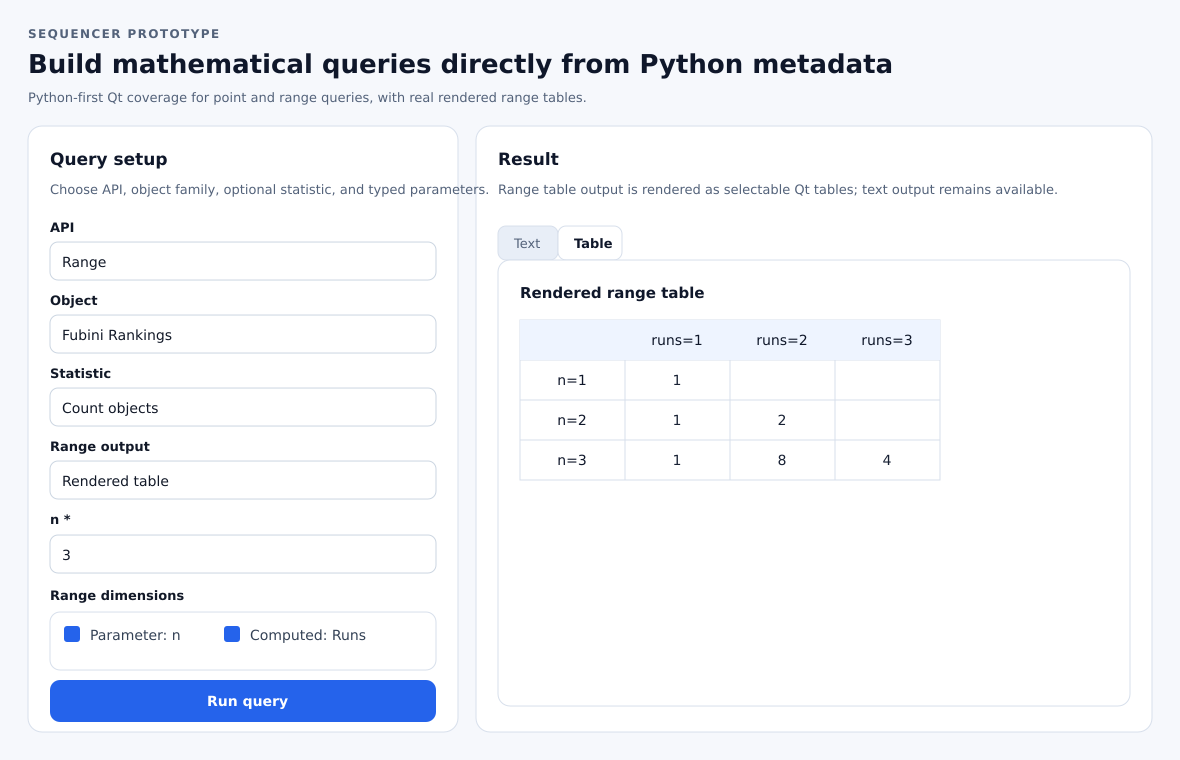
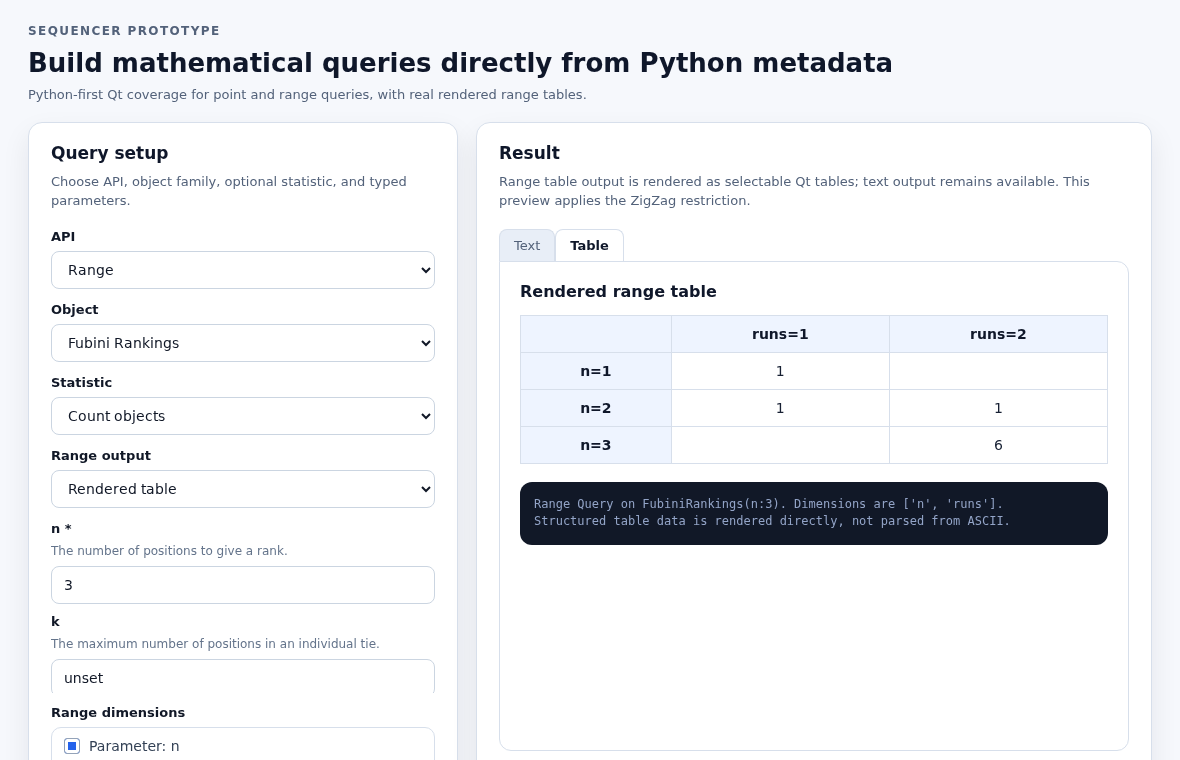
Add restriction support to Python-first Qt prototype
Wire restriction groups into query execution so the prototype can express the full existing restriction model. This keeps range results structured for native table rendering and updates the visual preview with a restricted query.

diff --git a/UI/pyqt_prototype/preview.html b/UI/pyqt_prototype/preview.html
@@ -22,6 +22,8 @@ select, .input { width: 100%; height: 38px; border: 1px solid #cbd5e1; border-ra
 .parameter-list { display: flex; flex-direction: column; gap: 10px; margin: 0 0 12px; max-height: 172px; overflow: hidden; }
 .field-hint { color: #64748b; font-size: 12px; line-height: 1.35; margin-bottom: 7px; min-height: 16px; }
 .dimension-list { border: 1px solid #d7dfeb; border-radius: 10px; padding: 10px 12px; display: grid; gap: 8px; margin-bottom: 12px; }
+.restriction-list { border: 1px solid #d7dfeb; border-radius: 10px; padding: 10px 12px; display: grid; gap: 8px; margin-bottom: 12px; background: #f8fbff; }
+.restriction-pill { border-radius: 999px; background: #e0ecff; color: #2563eb; padding: 4px 9px; font-size: 12px; font-weight: 750; width: max-content; }
 .check { display: flex; align-items: center; gap: 9px; color: #334155; font-size: 14px; }
 .box { width: 16px; height: 16px; border: 1px solid #94a3b8; border-radius: 3px; background: #fff; }
 .box.on { background: #2563eb; box-shadow: inset 0 0 0 3px #fff; }
@@ -91,6 +93,11 @@ td { color: #172033; }
           <label class="check"><span class="box on"></span><span>Computed: Runs</span></label>
           <label class="check"><span class="box"></span><span>Computed: Weak Runs</span></label>
         </div>
+        <div class="field-label">Restrictions</div>
+        <div class="restriction-list">
+          <div class="restriction-pill">Group 1 · all selected must pass</div>
+          <label class="check"><span class="box on"></span><span>ZigZag · is = true</span></label>
+        </div>
         <label class="check"><span class="box"></span><span>Show generated elements</span></label>
         <div class="spacer"></div>
         <button>Run query</button>
@@ -98,9 +105,9 @@ td { color: #172033; }
       </section>
       <section class="card">
         <h2>Result</h2>
-        <div class="help">Range table output is rendered as selectable Qt tables; text output remains available.</div>
+        <div class="help">Range table output is rendered as selectable Qt tables; text output remains available. This preview applies the ZigZag restriction.</div>
         <div class="tabs"><div class="tab">Text</div><div class="tab active">Table</div></div>
-        <div class="panel"><div class="table-title">Rendered range table</div><table><thead><tr><th></th><th>runs=1</th><th>runs=2</th><th>runs=3</th></tr></thead><tbody><tr><th>n=1</th><td>1</td><td></td><td></td></tr><tr><th>n=2</th><td>1</td><td>2</td><td></td></tr><tr><th>n=3</th><td>1</td><td>8</td><td>4</td></tr></tbody></table><div class="output-note">Range Query on FubiniRankings(n:3). Dimensions are [&#x27;n&#x27;, &#x27;runs&#x27;].<br>Structured table data is rendered directly, not parsed from ASCII.</div></div>
+        <div class="panel"><div class="table-title">Rendered range table</div><table><thead><tr><th></th><th>runs=1</th><th>runs=2</th></tr></thead><tbody><tr><th>n=1</th><td>1</td><td></td></tr><tr><th>n=2</th><td>1</td><td>1</td></tr><tr><th>n=3</th><td></td><td>6</td></tr></tbody></table><div class="output-note">Range Query on FubiniRankings(n:3). Dimensions are [&#x27;n&#x27;, &#x27;runs&#x27;].<br>Structured table data is rendered directly, not parsed from ASCII.</div></div>
       </section>
     </div>
   </main>

diff --git a/UI/pyqt_prototype/generate_preview.py b/UI/pyqt_prototype/generate_preview.py
@@ -64,6 +64,7 @@ def preview_data():
         {"n": 3},
         dimensions=[Dimension(DimensionType.PARAMETER, "n"), Dimension(DimensionType.COMPUTED, "runs")],
         output_type=OutputType.ASCII_TABLE,
+        restriction_groups=[[('zigzag', {'is': True})]],
     )
     return command_name, result
 
@@ -101,6 +102,8 @@ select, .input {{ width: 100%; height: 38px; border: 1px solid {c['input_border'
 .parameter-list {{ display: flex; flex-direction: column; gap: 10px; margin: 0 0 12px; max-height: 172px; overflow: hidden; }}
 .field-hint {{ color: {c['hint']}; font-size: 12px; line-height: 1.35; margin-bottom: 7px; min-height: 16px; }}
 .dimension-list {{ border: 1px solid {c['card_border']}; border-radius: 10px; padding: 10px 12px; display: grid; gap: 8px; margin-bottom: 12px; }}
+.restriction-list {{ border: 1px solid {c['card_border']}; border-radius: 10px; padding: 10px 12px; display: grid; gap: 8px; margin-bottom: 12px; background: #f8fbff; }}
+.restriction-pill {{ border-radius: 999px; background: #e0ecff; color: {c['primary']}; padding: 4px 9px; font-size: 12px; font-weight: 750; width: max-content; }}
 .check {{ display: flex; align-items: center; gap: 9px; color: #334155; font-size: 14px; }}
 .box {{ width: 16px; height: 16px; border: 1px solid #94a3b8; border-radius: 3px; background: #fff; }}
 .box.on {{ background: {c['primary']}; box-shadow: inset 0 0 0 3px #fff; }}
@@ -139,6 +142,11 @@ td {{ color: {c['text']}; }}
           <label class="check"><span class="box on"></span><span>Computed: Runs</span></label>
           <label class="check"><span class="box"></span><span>Computed: Weak Runs</span></label>
         </div>
+        <div class="field-label">Restrictions</div>
+        <div class="restriction-list">
+          <div class="restriction-pill">Group 1 · all selected must pass</div>
+          <label class="check"><span class="box on"></span><span>ZigZag · is = true</span></label>
+        </div>
         <label class="check"><span class="box"></span><span>Show generated elements</span></label>
         <div class="spacer"></div>
         <button>Run query</button>
@@ -146,7 +154,7 @@ td {{ color: {c['text']}; }}
       </section>
       <section class="card">
         <h2>Result</h2>
-        <div class="help">Range table output is rendered as selectable Qt tables; text output remains available.</div>
+        <div class="help">Range table output is rendered as selectable Qt tables; text output remains available. This preview applies the ZigZag restriction.</div>
         <div class="tabs"><div class="tab">Text</div><div class="tab active">Table</div></div>
         <div class="panel">{table}<div class="output-note">{html.escape(result.text.splitlines()[0])}<br>Structured table data is rendered directly, not parsed from ASCII.</div></div>
       </section>
@@ -163,7 +171,7 @@ def build_svg():
   <rect width="100%" height="100%" fill="{c['app_bg']}"/>
   <text x="28" y="38" fill="{c['muted']}" font-family="Arial" font-size="12" font-weight="700" letter-spacing="1.4">SEQUENCER PROTOTYPE</text>
   <text x="28" y="73" fill="{c['title']}" font-family="Arial" font-size="26" font-weight="800">Build mathematical queries directly from Python metadata</text>
-  <text x="28" y="102" fill="{c['muted']}" font-family="Arial" font-size="13">Python-first Qt coverage for point and range queries, with real rendered range tables.</text>
+  <text x="28" y="102" fill="{c['muted']}" font-family="Arial" font-size="13">Python-first Qt coverage for APIs, restrictions, and real rendered range tables.</text>
   <rect x="28" y="126" width="430" height="606" rx="14" fill="{c['card_bg']}" stroke="{c['card_border']}"/>
   <rect x="476" y="126" width="676" height="606" rx="14" fill="{c['card_bg']}" stroke="{c['card_border']}"/>
   <text x="50" y="165" fill="{c['title']}" font-family="Arial" font-size="17" font-weight="750">Query setup</text>
@@ -178,13 +186,15 @@ def build_svg():
   <rect x="50" y="461" width="386" height="38" rx="8" fill="#fff" stroke="{c['input_border']}"/><text x="62" y="486" fill="#111827" font-family="Arial" font-size="14">Rendered table</text>
   <text x="50" y="524" fill="#111827" font-family="Arial" font-size="13" font-weight="750">n *</text>
   <rect x="50" y="535" width="386" height="38" rx="8" fill="#fff" stroke="{c['input_border']}"/><text x="62" y="560" fill="#111827" font-family="Arial" font-size="14">3</text>
-  <text x="50" y="600" fill="#111827" font-family="Arial" font-size="13" font-weight="750">Range dimensions</text>
-  <rect x="50" y="612" width="386" height="58" rx="10" fill="#fff" stroke="{c['card_border']}"/>
-  <rect x="64" y="626" width="16" height="16" rx="3" fill="{c['primary']}"/><text x="90" y="640" fill="#334155" font-family="Arial" font-size="14">Parameter: n</text>
-  <rect x="224" y="626" width="16" height="16" rx="3" fill="{c['primary']}"/><text x="250" y="640" fill="#334155" font-family="Arial" font-size="14">Computed: Runs</text>
-  <rect x="50" y="680" width="386" height="42" rx="10" fill="{c['primary']}"/><text x="207" y="706" fill="#fff" font-family="Arial" font-size="14" font-weight="750">Run query</text>
+  <text x="50" y="586" fill="#111827" font-family="Arial" font-size="13" font-weight="750">Range dimensions</text>
+  <rect x="50" y="598" width="386" height="48" rx="10" fill="#fff" stroke="{c['card_border']}"/>
+  <rect x="64" y="614" width="16" height="16" rx="3" fill="{c['primary']}"/><text x="90" y="628" fill="#334155" font-family="Arial" font-size="14">Parameter: n</text>
+  <rect x="224" y="614" width="16" height="16" rx="3" fill="{c['primary']}"/><text x="250" y="628" fill="#334155" font-family="Arial" font-size="14">Computed: Runs</text>
+  <text x="50" y="668" fill="#111827" font-family="Arial" font-size="13" font-weight="750">Restrictions</text>
+  <rect x="50" y="678" width="386" height="36" rx="10" fill="#f8fbff" stroke="{c['card_border']}"/>
+  <rect x="64" y="688" width="16" height="16" rx="3" fill="{c['primary']}"/><text x="90" y="702" fill="#334155" font-family="Arial" font-size="14">ZigZag · is = true</text>
   <text x="498" y="165" fill="{c['title']}" font-family="Arial" font-size="17" font-weight="750">Result</text>
-  <text x="498" y="194" fill="{c['muted']}" font-family="Arial" font-size="13">Range table output is rendered as selectable Qt tables; text output remains available.</text>
+  <text x="498" y="194" fill="{c['muted']}" font-family="Arial" font-size="13">Rendered table with ZigZag restriction applied.</text>
   <rect x="498" y="226" width="60" height="34" rx="8" fill="#e8eef7" stroke="{c['card_border']}"/><text x="514" y="248" fill="{c['muted']}" font-family="Arial" font-size="13">Text</text>
   <rect x="558" y="226" width="64" height="34" rx="8" fill="#fff" stroke="{c['card_border']}"/><text x="574" y="248" fill="{c['title']}" font-family="Arial" font-size="13" font-weight="700">Table</text>
   <rect x="498" y="260" width="632" height="446" rx="12" fill="#fff" stroke="{c['card_border']}"/>
@@ -195,8 +205,8 @@ def build_svg():
     <rect x="520" y="320" width="420" height="40" fill="#eef4ff"/>
     <text x="677" y="345" fill="{c['title']}">runs=1</text><text x="782" y="345" fill="{c['title']}">runs=2</text><text x="887" y="345" fill="{c['title']}">runs=3</text>
     <text x="572" y="385" fill="{c['title']}">n=1</text><text x="677" y="385" fill="{c['text']}">1</text>
-    <text x="572" y="425" fill="{c['title']}">n=2</text><text x="677" y="425" fill="{c['text']}">1</text><text x="782" y="425" fill="{c['text']}">2</text>
-    <text x="572" y="465" fill="{c['title']}">n=3</text><text x="677" y="465" fill="{c['text']}">1</text><text x="782" y="465" fill="{c['text']}">8</text><text x="887" y="465" fill="{c['text']}">4</text>
+    <text x="572" y="425" fill="{c['title']}">n=2</text><text x="677" y="425" fill="{c['text']}">1</text><text x="782" y="425" fill="{c['text']}">1</text>
+    <text x="572" y="465" fill="{c['title']}">n=3</text><text x="782" y="465" fill="{c['text']}">6</text>
   </g>
 </svg>'''
 

diff --git a/UI/pyqt_prototype/main.py b/UI/pyqt_prototype/main.py
@@ -19,6 +19,7 @@ from PySide6.QtWidgets import (
     QMessageBox,
     QPushButton,
     QScrollArea,
+    QToolButton,
     QSizePolicy,
     QSpinBox,
     QTabWidget,
@@ -31,6 +32,7 @@ from PySide6.QtWidgets import (
 
 from CmdTools import Command
 from Parameters import OutputType, ParamType
+from Restriction import Restriction
 from SequencerAPI import SequencerAPI
 from Statistic import Dimension, DimensionType, Statistic
 from UI.pyqt_prototype.runner import QueryResult, coerce_value, run_query
@@ -43,7 +45,7 @@ class WorkerSignals(QObject):
 
 
 class QueryWorker(QRunnable):
-    def __init__(self, api_name, command_name, parameters, statistic_name, print_elements, dimensions, output_type):
+    def __init__(self, api_name, command_name, parameters, statistic_name, print_elements, dimensions, output_type, restriction_groups):
         super().__init__()
         self.api_name = api_name
         self.command_name = command_name
@@ -52,6 +54,7 @@ class QueryWorker(QRunnable):
         self.print_elements = print_elements
         self.dimensions = dimensions
         self.output_type = output_type
+        self.restriction_groups = restriction_groups
         self.signals = WorkerSignals()
 
     @Slot()
@@ -65,6 +68,7 @@ class QueryWorker(QRunnable):
                 self.print_elements,
                 self.dimensions,
                 self.output_type,
+                self.restriction_groups,
             )
         except Exception as exc:
             self.signals.failed.emit(str(exc))
@@ -84,14 +88,16 @@ class GeneratedParameterForm(QWidget):
 
     def set_command(self, command_name):
         self.command_name = command_name
+        self.set_parameters(Command.commands[command_name].parameters)
+
+    def set_parameters(self, parameters):
         self.editors = {}
         while self.layout.count():
             item = self.layout.takeAt(0)
             if item.widget():
                 item.widget().deleteLater()
 
-        command_class = Command.commands[command_name]
-        for parameter in sorted(command_class.parameters, key=lambda p: not p.required):
+        for parameter in sorted(parameters, key=lambda p: not p.required):
             editor = self._make_editor(parameter)
             self.layout.addWidget(self._make_parameter_row(parameter, editor))
             self.editors[parameter.name] = (parameter, editor)
@@ -160,6 +166,82 @@ class GeneratedParameterForm(QWidget):
         return coerce_value(parameter.param_type, text)
 
 
+class RestrictionRow(QWidget):
+    def __init__(self):
+        super().__init__()
+        self.layout = QVBoxLayout(self)
+        self.layout.setContentsMargins(0, 0, 0, 0)
+        self.layout.setSpacing(8)
+        self.picker = QComboBox()
+        for key, restriction_class in Restriction.restrictions.items():
+            self.picker.addItem(restriction_class.ui_name, key)
+        self.form = GeneratedParameterForm()
+        self.layout.addWidget(self.picker)
+        self.layout.addWidget(self.form)
+        self.picker.currentIndexChanged.connect(self.refresh_form)
+        self.refresh_form()
+
+    def refresh_form(self):
+        self.form.set_parameters(Restriction.restrictions[self.picker.currentData()].parameters)
+
+    def value(self):
+        return self.picker.currentData(), self.form.values()
+
+
+class RestrictionGroupEditor(QWidget):
+    def __init__(self, number):
+        super().__init__()
+        self.rows = []
+        self.layout = QVBoxLayout(self)
+        self.layout.setContentsMargins(0, 0, 0, 0)
+        self.layout.setSpacing(8)
+        header = QHBoxLayout()
+        title = QLabel(f"Group {number}")
+        title.setObjectName("fieldLabel")
+        self.add_button = QToolButton()
+        self.add_button.setText("+ restriction")
+        self.add_button.clicked.connect(self.add_restriction)
+        header.addWidget(title)
+        header.addStretch(1)
+        header.addWidget(self.add_button)
+        self.layout.addLayout(header)
+        self.rows_layout = QVBoxLayout()
+        self.rows_layout.setSpacing(10)
+        self.layout.addLayout(self.rows_layout)
+
+    def add_restriction(self):
+        row = RestrictionRow()
+        self.rows.append(row)
+        self.rows_layout.addWidget(row)
+
+    def value(self):
+        return [row.value() for row in self.rows]
+
+
+class RestrictionEditor(QWidget):
+    def __init__(self):
+        super().__init__()
+        self.groups = []
+        self.layout = QVBoxLayout(self)
+        self.layout.setContentsMargins(0, 0, 0, 0)
+        self.layout.setSpacing(10)
+        self.groups_layout = QVBoxLayout()
+        self.groups_layout.setSpacing(12)
+        self.layout.addLayout(self.groups_layout)
+        self.add_group_button = QPushButton("Add OR restriction group")
+        self.add_group_button.clicked.connect(self.add_group)
+        self.layout.addWidget(self.add_group_button)
+        self.add_group()
+
+    def add_group(self):
+        group = RestrictionGroupEditor(len(self.groups) + 1)
+        self.groups.append(group)
+        self.groups_layout.addWidget(group)
+
+    def values(self):
+        return [group for group in (group.value() for group in self.groups) if group]
+
+
 class DimensionSelector(QWidget):
     def __init__(self):
         super().__init__()
@@ -221,6 +303,7 @@ class SequencerPrototypeWindow(QMainWindow):
 
         self.print_elements = QCheckBox("Show generated elements")
         self.form = GeneratedParameterForm()
+        self.restrictions = RestrictionEditor()
         self.dimensions = DimensionSelector()
         self.output_tabs = QTabWidget()
         self.text_output = QTextEdit()
@@ -279,10 +362,13 @@ class SequencerPrototypeWindow(QMainWindow):
         command_scroller.setWidgetResizable(True)
         command_scroller.setHorizontalScrollBarPolicy(Qt.ScrollBarAlwaysOff)
         command_scroller.setWidget(self.form)
-        command_scroller.setMinimumHeight(190)
+        command_scroller.setMinimumHeight(150)
         layout.addWidget(command_scroller, 1)
 
-        self.dimension_block = self._make_field_block("Range dimensions", self._scroll_widget(self.dimensions, 150))
+        self.restriction_block = self._make_field_block("Restrictions", self._scroll_widget(self.restrictions, 170))
+        layout.addWidget(self.restriction_block)
+
+        self.dimension_block = self._make_field_block("Range dimensions", self._scroll_widget(self.dimensions, 130))
         layout.addWidget(self.dimension_block)
         layout.addWidget(self.print_elements)
         layout.addWidget(self.run_button)
@@ -349,6 +435,7 @@ class SequencerPrototypeWindow(QMainWindow):
     def run_query(self):
         try:
             parameters = self.form.values()
+            restriction_groups = self.restrictions.values()
             dimensions = self.dimensions.values() if self.api_picker.currentData() == "range" else None
         except Exception as exc:
             QMessageBox.warning(self, "Invalid parameters", str(exc))
@@ -366,6 +453,7 @@ class SequencerPrototypeWindow(QMainWindow):
             self.print_elements.isChecked(),
             dimensions,
             self.output_picker.currentData(),
+            restriction_groups,
         )
         worker.signals.finished.connect(self.query_finished)
         worker.signals.failed.connect(self.query_failed)

diff --git a/UI/pyqt_prototype/runner.py b/UI/pyqt_prototype/runner.py
@@ -7,6 +7,7 @@ import Commands.CommandRegistration  # registers all commands
 from API.RangeAPI import getTableBounds, invert, printResults
 from CmdTools import Command
 from Parameters import OutputType, ParamType
+from Restriction import Restriction
 from SequencerAPI import SequencerAPI
 from Statistic import Dimension, DimensionType, Statistic
 
@@ -37,8 +38,11 @@ def format_parameters(values: dict[str, object]) -> str:
             value = "true" if value else "false"
         if isinstance(value, OutputType):
             value = output_token(value)
-        if isinstance(value, list) and all(isinstance(item, Dimension) for item in value):
-            value = ",".join(f"{item.name}-{'parameter' if item.dim_type == DimensionType.PARAMETER else 'computed'}" for item in value)
+        if isinstance(value, list):
+            if all(isinstance(item, Dimension) for item in value):
+                value = ",".join(f"{item.name}-{'parameter' if item.dim_type == DimensionType.PARAMETER else 'computed'}" for item in value)
+            else:
+                value = ",".join(str(item) for item in value)
         parts.append(f"{name}:{value}")
     return "/".join(parts)
 
@@ -52,17 +56,35 @@ def output_token(output_type: OutputType) -> str:
     }[output_type]
 
 
-def instantiate_command(command_name: str, parameters: dict[str, object]):
+def instantiate_command(command_name: str, parameters: dict[str, object], restriction_groups: list[list[tuple[str, dict[str, object]]]] | None = None):
     command_class = Command.commands[command_name]
-    return command_class(format_parameters(parameters))
+    command = command_class(format_parameters(parameters))
+    command.setRestrictions(instantiate_restrictions(restriction_groups))
+    return command
+
+
+def instantiate_restrictions(restriction_groups: list[list[tuple[str, dict[str, object]]]] | None):
+    groups = []
+    for group in restriction_groups or []:
+        parsed_group = []
+        for restriction_name, parameters in group:
+            parsed_group.append(Restriction.parse(restriction_name + _formatted_suffix(parameters)))
+        if parsed_group:
+            groups.append(parsed_group)
+    return groups
+
+
+def _formatted_suffix(parameters: dict[str, object]) -> str:
+    formatted = format_parameters(parameters)
+    return f"/{formatted}" if formatted else ""
 
 
 def execute_point_query(command_name: str, parameters: dict[str, object], statistic_name: str | None = None, print_elements: bool = False) -> str:
     return run_point_query(command_name, parameters, statistic_name, print_elements).text
 
 
-def run_point_query(command_name: str, parameters: dict[str, object], statistic_name: str | None = None, print_elements: bool = False) -> QueryResult:
-    command = instantiate_command(command_name, parameters)
+def run_point_query(command_name: str, parameters: dict[str, object], statistic_name: str | None = None, print_elements: bool = False, restriction_groups: list[list[tuple[str, dict[str, object]]]] | None = None) -> QueryResult:
+    command = instantiate_command(command_name, parameters, restriction_groups)
     api = SequencerAPI.apis["point"](format_parameters({"p": print_elements}))
     api.setCommand(command)
     api.setStatistic(None if statistic_name is None else Statistic.statistics[statistic_name]())
@@ -81,8 +103,9 @@ def run_range_query(
     statistic_name: str | None = None,
     print_elements: bool = False,
     output_type: OutputType = OutputType.ASCII_TABLE,
+    restriction_groups: list[list[tuple[str, dict[str, object]]]] | None = None,
 ) -> QueryResult:
-    command = instantiate_command(command_name, parameters)
+    command = instantiate_command(command_name, parameters, restriction_groups)
     stat = None if statistic_name is None else Statistic.statistics[statistic_name]()
     api = SequencerAPI.apis["range"](format_parameters({"dimensions": dimensions, "p": print_elements, "out": output_type}))
     api.setCommand(command)
@@ -140,13 +163,14 @@ def run_query(
     print_elements: bool = False,
     dimensions: list[Dimension] | None = None,
     output_type: OutputType = OutputType.ASCII_TABLE,
+    restriction_groups: list[list[tuple[str, dict[str, object]]]] | None = None,
 ) -> QueryResult:
     if api_name == "point":
-        return run_point_query(command_name, parameters, statistic_name, print_elements)
+        return run_point_query(command_name, parameters, statistic_name, print_elements, restriction_groups)
     if api_name == "range":
         if not dimensions:
             raise ValueError("Select at least one range dimension.")
-        return run_range_query(command_name, parameters, dimensions, statistic_name, print_elements, output_type)
+        return run_range_query(command_name, parameters, dimensions, statistic_name, print_elements, output_type, restriction_groups)
     raise ValueError(f"Unsupported API: {api_name}")
 
 
